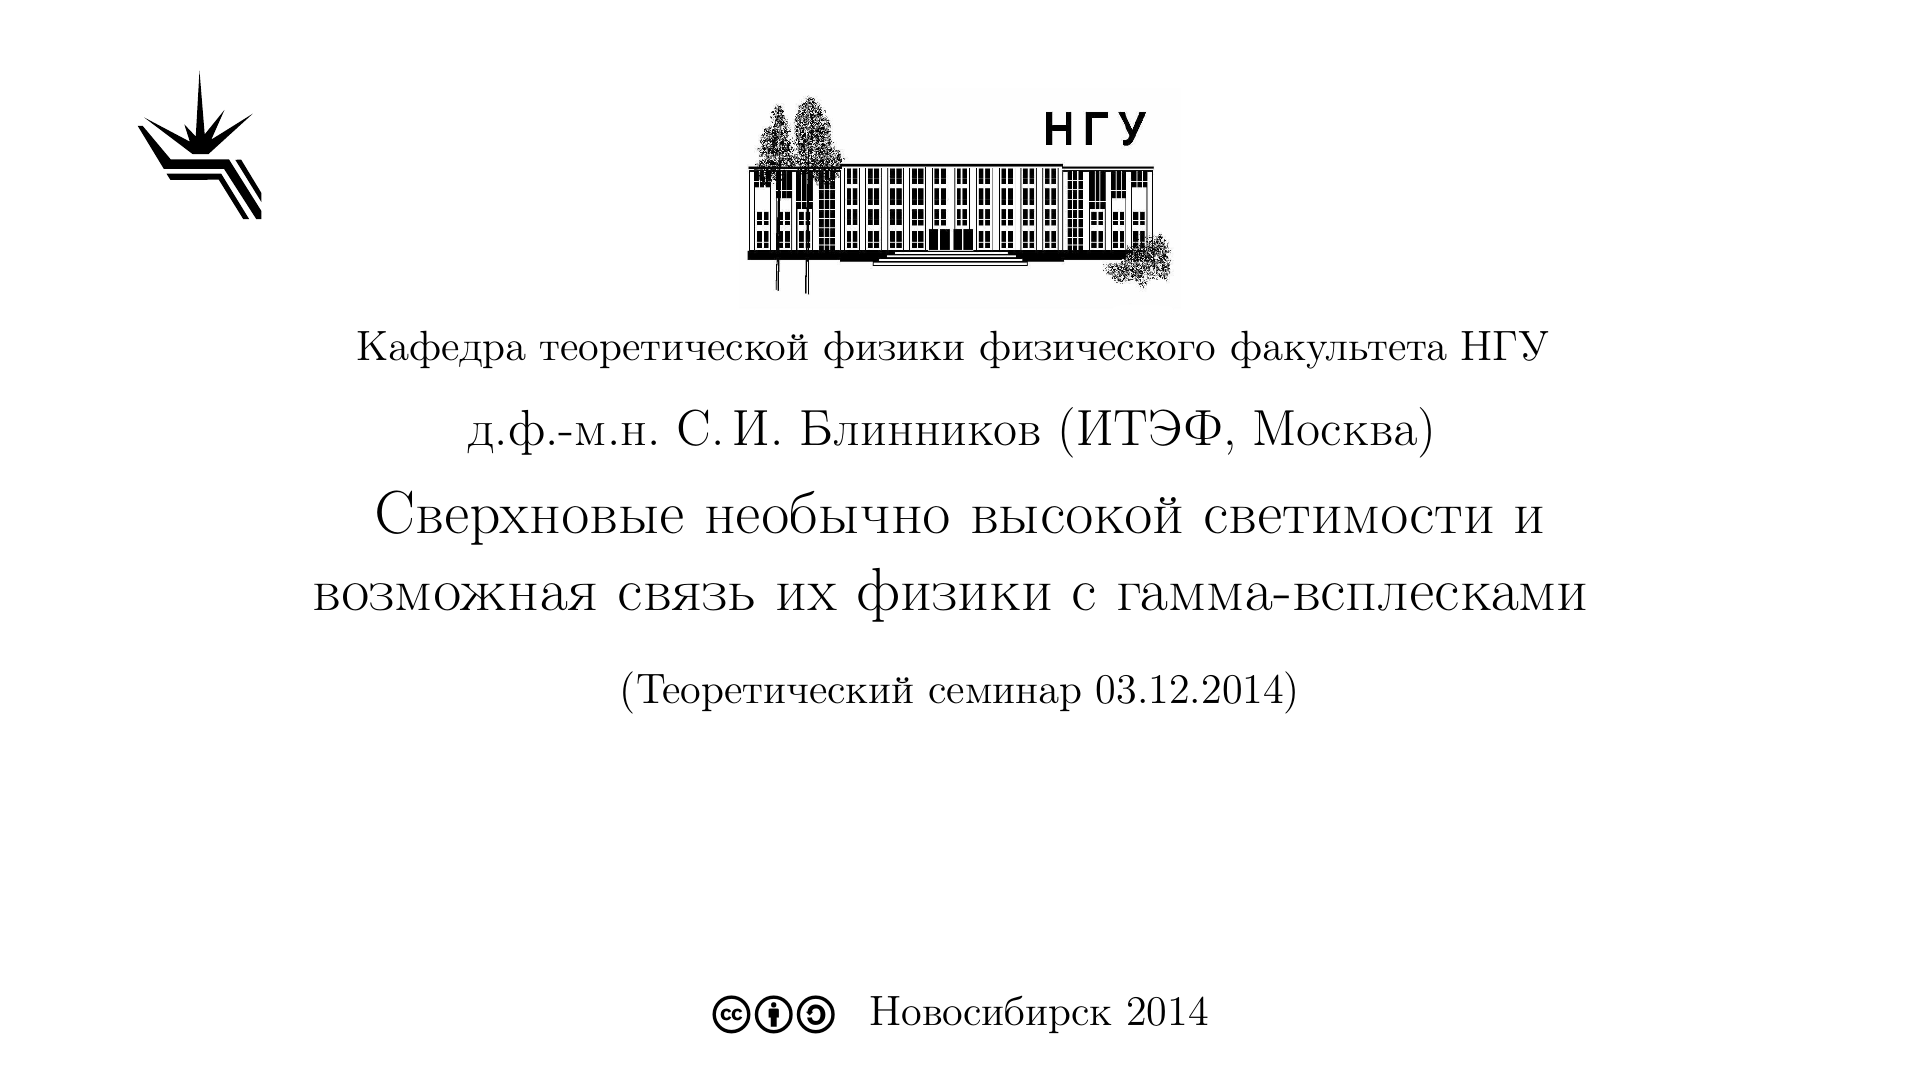
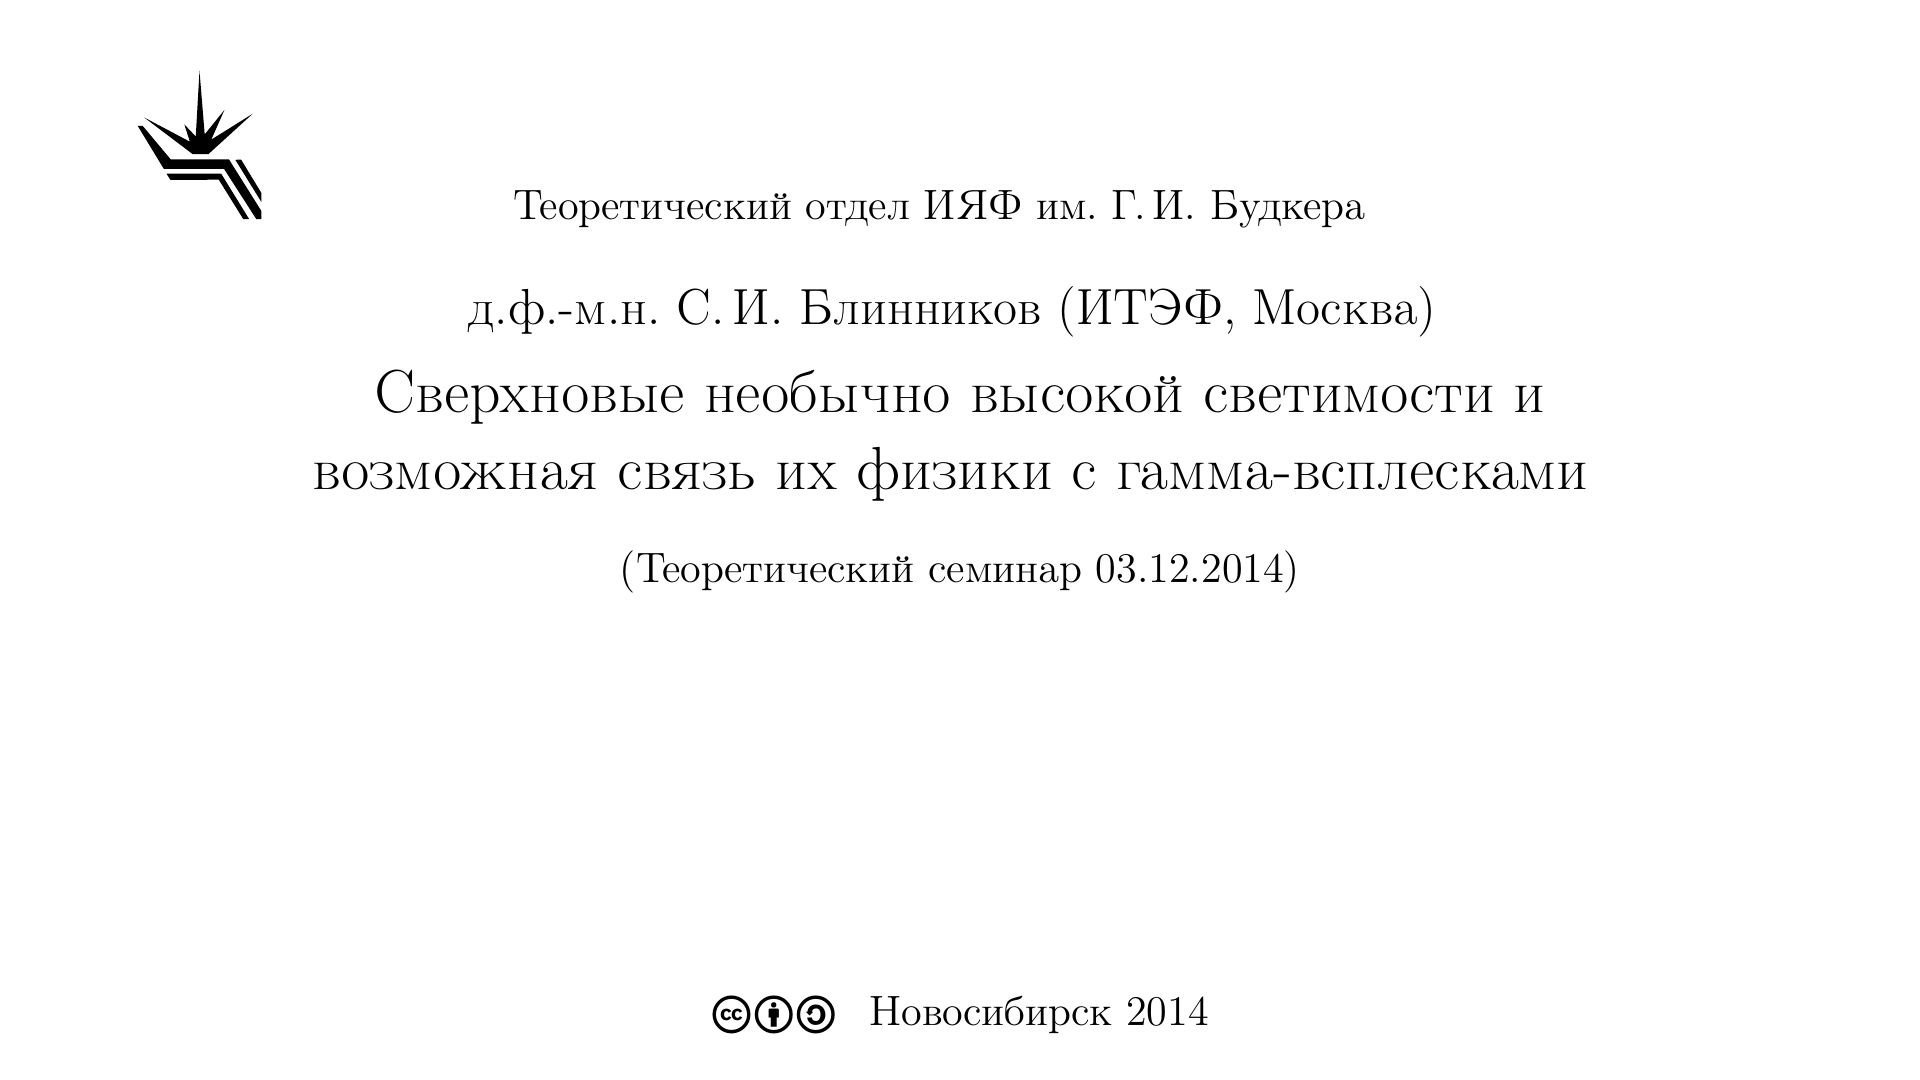
only BINP

Changed region(s): [[0.1562, 0.0917, 0.8438, 0.5806], [0.3438, 0.6111, 0.5938, 0.6722], [0.625, 0.6111, 0.6562, 0.6722]]

diff --git a/Cover/TO_seminars/Lee_Reducing_differential_equations_for_master_integrals_to_canonical_form.tex b/Cover/TO_seminars/Lee_Reducing_differential_equations_for_master_integrals_to_canonical_form.tex
@@ -27,21 +27,16 @@
     \begin{minipage}[t]{3em}
       \includegraphics[width=\textwidth]{../BINP-logo}
     \end{minipage}\hfill
-    \begin{minipage}{0.23\linewidth}
-    \includegraphics[width=\textwidth]{../NSU-logo}
-    \end{minipage}
-    \hfill
-    \hspace*{6em}
-
-    Theoretical Physics Devision, Departmant of Physics NSU
-    \medskip
+    Теоретический отдел ИЯФ им. Г.\,И. Будкера\hfill
+    \hspace*{7em}
+    \bigskip
 
     \large
     Roman N. Lee
     \smallskip
 
     \Large
-   Reducing differential equations for master integrals to canonical form
+   Reducing differential equations for master integrals\\ to canonical form
     \bigskip
 
     \normalsize

diff --git a/Cover/TO_seminars/Dolgov_Problems_of_Cosmology_and_Particle_Physics01.tex b/Cover/TO_seminars/Dolgov_Problems_of_Cosmology_and_Particle_Physics01.tex
@@ -27,14 +27,9 @@
     \begin{minipage}[t]{3em}
       \includegraphics[width=\textwidth]{../BINP-logo}
     \end{minipage}\hfill
-    \begin{minipage}{0.23\linewidth}
-    \includegraphics[width=\textwidth]{../NSU-logo}
-    \end{minipage}
-    \hfill
-    \hspace*{6em}
-
-    Кафедра теоретической физики физического факультета НГУ
-    \medskip
+    Теоретический отдел ИЯФ им. Г.\,И. Будкера\hfill
+    \hspace*{7em}
+    \bigskip
 
     \large
     проф. А.\,Д.~Долгов (университет Феррары, ИТЭФ, НГУ)

diff --git a/Cover/TO_seminars/Dolgov_Problems_of_Cosmology_and_Particle_Physics02.tex b/Cover/TO_seminars/Dolgov_Problems_of_Cosmology_and_Particle_Physics02.tex
@@ -27,14 +27,9 @@
     \begin{minipage}[t]{3em}
       \includegraphics[width=\textwidth]{../BINP-logo}
     \end{minipage}\hfill
-    \begin{minipage}{0.23\linewidth}
-    \includegraphics[width=\textwidth]{../NSU-logo}
-    \end{minipage}
-    \hfill
-    \hspace*{6em}
-
-    Кафедра теоретической физики физического факультета НГУ
-    \medskip
+    Теоретический отдел ИЯФ им. Г.\,И. Будкера\hfill
+    \hspace*{7em}
+    \bigskip
 
     \large
     проф. А.\,Д.~Долгов (университет Феррары, ИТЭФ, НГУ)

diff --git a/Cover/TO_seminars/Blinnikov_Supernova_HighLum.tex b/Cover/TO_seminars/Blinnikov_Supernova_HighLum.tex
@@ -27,14 +27,9 @@
     \begin{minipage}[t]{3em}
       \includegraphics[width=\textwidth]{../BINP-logo}
     \end{minipage}\hfill
-    \begin{minipage}{0.23\linewidth}
-    \includegraphics[width=\textwidth]{../NSU-logo}
-    \end{minipage}
-    \hfill
-    \hspace*{6em}
-
-    Кафедра теоретической физики физического факультета НГУ
-    \medskip
+    Теоретический отдел ИЯФ им. Г.\,И. Будкера\hfill
+    \hspace*{7em}
+    \bigskip
 
     \large
     д.ф.-м.н. С.\,И. Блинников (ИТЭФ, Москва)

diff --git a/Cover/TO_seminars/Glazyrin_Combustion_physics_in_1a_supernovas.tex b/Cover/TO_seminars/Glazyrin_Combustion_physics_in_1a_supernovas.tex
@@ -27,14 +27,9 @@
     \begin{minipage}[t]{3em}
       \includegraphics[width=\textwidth]{../BINP-logo}
     \end{minipage}\hfill
-    \begin{minipage}{0.23\linewidth}
-    \includegraphics[width=\textwidth]{../NSU-logo}
-    \end{minipage}
-    \hfill
-    \hspace*{6em}
-
-    Кафедра теоретической физики физического факультета НГУ
-    \medskip
+    Теоретический отдел ИЯФ им. Г.\,И. Будкера\hfill
+    \hspace*{7em}
+    \bigskip
 
     \large
     к.ф.-м.н. С.\,И. Глазырин (ИТЭФ, Москва)

diff --git a/Cover/TO_seminars/Gorsky_Barion_as_Dyon_Instanton.tex b/Cover/TO_seminars/Gorsky_Barion_as_Dyon_Instanton.tex
@@ -27,14 +27,9 @@
     \begin{minipage}[t]{3em}
       \includegraphics[width=\textwidth]{../BINP-logo}
     \end{minipage}\hfill
-    \begin{minipage}{0.23\linewidth}
-    \includegraphics[width=\textwidth]{../NSU-logo}
-    \end{minipage}
-    \hfill
-    \hspace*{6em}
-
-    Кафедра теоретической физики физического факультета НГУ
-    \medskip
+    Теоретический отдел ИЯФ им. Г.\,И. Будкера\hfill
+    \hspace*{7em}
+    \bigskip
 
     \large
     Александр С. Горский  (ИТЭФ, Москва)

diff --git a/Cover/TO_seminars/Yudin_AsroPhStars01.tex b/Cover/TO_seminars/Yudin_AsroPhStars01.tex
@@ -27,14 +27,9 @@
     \begin{minipage}[t]{3em}
       \includegraphics[width=\textwidth]{../BINP-logo}
     \end{minipage}\hfill
-    \begin{minipage}{0.23\linewidth}
-    \includegraphics[width=\textwidth]{../NSU-logo}
-    \end{minipage}
-    \hfill
-    \hspace*{6em}
-
-    Кафедра теоретической физики физического факультета НГУ
-    \medskip
+    Теоретический отдел ИЯФ им. Г.\,И. Будкера\hfill
+    \hspace*{7em}
+    \bigskip
 
     \large
     к.ф.-м.н. А.\,В. Юдин (ИТЭФ, Москва)

diff --git a/Cover/TO_seminars/Yudin_AsroPhStars02.tex b/Cover/TO_seminars/Yudin_AsroPhStars02.tex
@@ -27,14 +27,9 @@
     \begin{minipage}[t]{3em}
       \includegraphics[width=\textwidth]{../BINP-logo}
     \end{minipage}\hfill
-    \begin{minipage}{0.23\linewidth}
-    \includegraphics[width=\textwidth]{../NSU-logo}
-    \end{minipage}
-    \hfill
-    \hspace*{6em}
-
-    Кафедра теоретической физики физического факультета НГУ
-    \medskip
+    Теоретический отдел ИЯФ им. Г.\,И. Будкера\hfill
+    \hspace*{7em}
+    \bigskip
 
     \large
     к.ф.-м.н. А.\,В. Юдин (ИТЭФ, Москва)

diff --git a/Cover/TO_seminars/Yudin_Core-collapse_supernovae_and_neutron_stars.tex b/Cover/TO_seminars/Yudin_Core-collapse_supernovae_and_neutron_stars.tex
@@ -27,14 +27,9 @@
     \begin{minipage}[t]{3em}
       \includegraphics[width=\textwidth]{../BINP-logo}
     \end{minipage}\hfill
-    \begin{minipage}{0.23\linewidth}
-    \includegraphics[width=\textwidth]{../NSU-logo}
-    \end{minipage}
-    \hfill
-    \hspace*{6em}
-
-    Кафедра теоретической физики физического факультета НГУ
-    \medskip
+    Теоретический отдел ИЯФ им. Г.\,И. Будкера\hfill
+    \hspace*{7em}
+    \bigskip
 
     \large
     к.ф.-м.н. А.\,В. Юдин (ИТЭФ, Москва)

diff --git a/Cover/TO_seminars/Potashov_SupernovaII_as_ruler.tex b/Cover/TO_seminars/Potashov_SupernovaII_as_ruler.tex
@@ -27,14 +27,9 @@
     \begin{minipage}[t]{3em}
       \includegraphics[width=\textwidth]{../BINP-logo}
     \end{minipage}\hfill
-    \begin{minipage}{0.23\linewidth}
-    \includegraphics[width=\textwidth]{../NSU-logo}
-    \end{minipage}
-    \hfill
-    \hspace*{6em}
-
-    Кафедра теоретической физики физического факультета НГУ
-    \medskip
+    Теоретический отдел ИЯФ им. Г.\,И. Будкера\hfill
+    \hspace*{7em}
+    \bigskip
 
     \large
     М.\,Ш. Поташов (ИТЭФ, Москва)

diff --git a/Cover/TO_seminars/Parnachev_Quantum_Entanglement_in_field_theories.tex b/Cover/TO_seminars/Parnachev_Quantum_Entanglement_in_field_theories.tex
@@ -27,14 +27,9 @@
     \begin{minipage}[t]{3em}
       \includegraphics[width=\textwidth]{../BINP-logo}
     \end{minipage}\hfill
-    \begin{minipage}{0.23\linewidth}
-    \includegraphics[width=\textwidth]{../NSU-logo}
-    \end{minipage}
-    \hfill
-    \hspace*{6em}
-
-    Кафедра теоретической физики физического факультета НГУ
-    \medskip
+    Теоретический отдел ИЯФ им. Г.\,И. Будкера\hfill
+    \hspace*{7em}
+    \bigskip
 
     \large
     Парначев А. (Leiden U.)

diff --git a/Cover/TO_seminars/Gelash-Nonlinear_Stage_of_modulational_instability.tex b/Cover/TO_seminars/Gelash-Nonlinear_Stage_of_modulational_instability.tex
@@ -27,14 +27,9 @@
     \begin{minipage}[t]{3em}
       \includegraphics[width=\textwidth]{../BINP-logo}
     \end{minipage}\hfill
-    \begin{minipage}{0.23\linewidth}
-    \includegraphics[width=\textwidth]{../NSU-logo}
-    \end{minipage}
-    \hfill
-    \hspace*{6em}
-
-    Кафедра теоретической физики физического факультета НГУ
-    \medskip
+    Теоретический отдел ИЯФ им. Г.\,И. Будкера\hfill
+    \hspace*{7em}
+    \bigskip
 
     \large
     Андрей А. Гелаш
